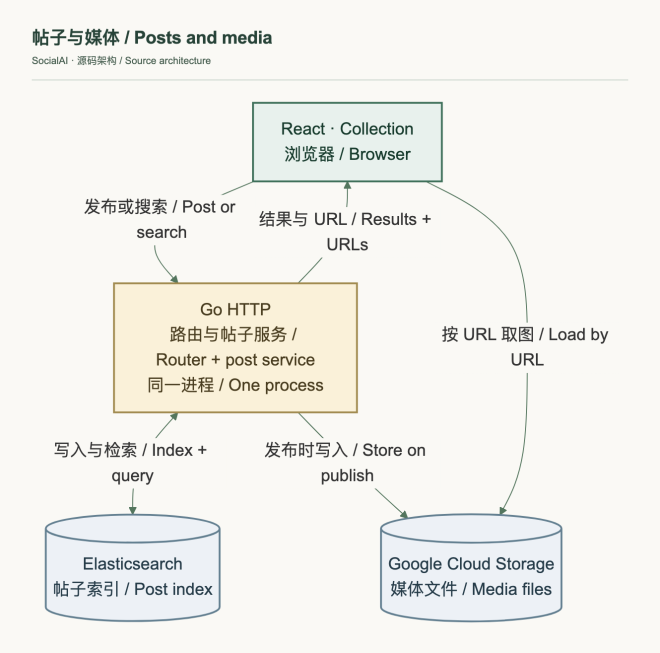
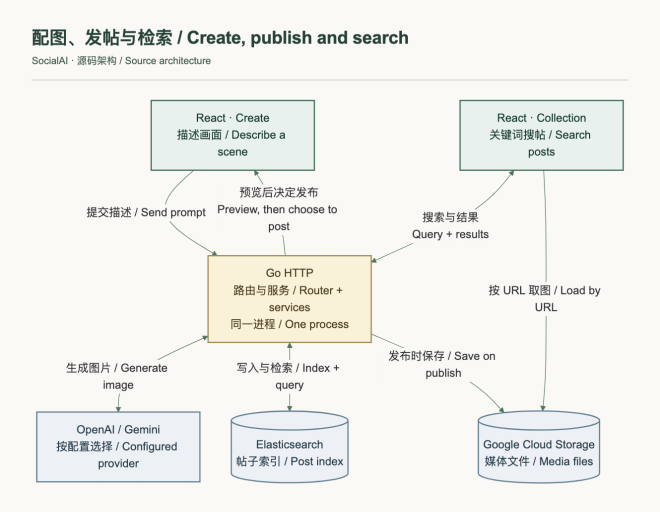
Introduce SocialAI through the author's need for a reaction image

diff --git a/projects-data.js b/projects-data.js
@@ -328,12 +328,12 @@ const PROJECTS = {
       "type": "academic",
       "tech": "React, Go, Elasticsearch, Google Cloud Storage, Docker",
       "summary": [
-        "A word from a post can lead you back to its photo. In SocialAI’s Collection, a keyword search finds matching posts and lets you open their images.",
-        "记得帖子里写过的一个词，就能用它找回配图。在 SocialAI 的 Collection 里，输入关键词可以找到对应的帖子，再点开图片查看。"
+        "Describe a reaction image to go with a post, preview it, and choose whether to publish. To find an image someone has already posted, search Collection for a word you remember.",
+        "想给帖子配张表情图，可以用一句话描述画面，预览后再决定是否发布。想找回看过的配图，也可以在 Collection 里搜一个记得的词。"
       ],
       "background": [
-        "SocialAI was a course project for publishing and finding media posts. Searching by author is useful when you remember who posted a photo. Searching the post text gives you another way in when all you remember is what someone wrote.",
-        "SocialAI 是一个发布和查找图文帖子的课程项目。记得谁发过照片时，可以按作者检索；只记得帖子里写过什么时，也可以从正文入手。"
+        "People often know exactly what they want to say but cannot think of the right reaction image. Sometimes they can picture the meme and still cannot find it. Take “Finally finished.” A cat slumped over a keyboard adds something the words leave open — exhaustion and relief at the same time. SocialAI explores that idea in Create, where the author describes a scene and decides whether the generated preview fits the post. Collection addresses a different moment. Someone looking for a garden bridge photo can find it again by searching for “bridge” in the post text.",
+        "发帖时，常常已经知道自己要说什么，却想不到哪张表情包最贴切。有时脑子里明明有那张图，翻了半天也找不到。比如一句「终于写完了」，配上一只瘫在键盘上的猫，读者就能体会到那种累得够呛、又松了口气的心情。在 SocialAI 的 Create 页面，发帖的人可以把想到的画面描述出来，看过生成的预览再决定是否发布。Collection 用在另一个场景：以前看过一张花园小桥的配图，只要记得帖子里写过 bridge，就能用这个词找回来。"
       ],
       "work": [
         [
@@ -462,19 +462,19 @@ const PROJECTS = {
               "正文和图片分别存在哪里"
             ],
             "body": [
-              "When a post is published, Go saves the media in Google Cloud Storage and indexes the post text, author and media URL in Elasticsearch. During a search, Go returns the matching post records to React. The browser uses their URLs to load the images from storage.",
-              "发帖时，Go 将媒体文件保存到 Google Cloud Storage，并把正文、作者和媒体 URL 写入 Elasticsearch 索引。搜索时，Go 将匹配的帖子记录返回给 React；浏览器拿到记录中的 URL，再从对象存储加载图片。"
+              "Create sends the author’s scene description to Go. The image-generation interface, which I designed and verified with coding-agent assistance during June 2026 maintenance, calls the configured provider and returns an image for preview. If the author publishes a post, Go stores its media in Google Cloud Storage and indexes its text, author and media URL in Elasticsearch. Collection can then search the index and load a matching image by URL. The bridge walkthrough starts with an existing sample post.",
+              "Create 将作者的画面描述提交给 Go。2026年6月维护时，我在编码助手协助下设计并验证了图像生成接口，由它调用配置的服务商，将图片返回给作者预览。作者决定发布后，Go 把媒体存入 Google Cloud Storage，并将正文、作者和媒体 URL 写入 Elasticsearch 索引。Collection 可以检索这个索引，再按 URL 加载匹配的图片。桥梁搜图演示从一条已有的示例帖子开始。"
             ],
             "gallery": [
               {
                 "src": "assets/projects/social-ai/architecture.webp",
                 "thumbnail": "assets/projects/social-ai/architecture-thumb.webp",
                 "width": 1330,
-                "height": 1315,
+                "height": 1030,
                 "thumbnailWidth": 660,
                 "alt": [
-                  "React sends posts and searches to Go. Go uses Elasticsearch for posts and Google Cloud Storage for media. The browser loads each image by URL.",
-                  "React 向 Go 提交帖子或搜索。Go 使用 Elasticsearch 存储帖子索引，使用 Google Cloud Storage 存储媒体。浏览器按 URL 加载图片。"
+                  "Create previews a generated image before publication. Collection searches indexed posts and loads their media by URL.",
+                  "Create 在发布前预览生成的配图。Collection 从帖子索引中搜索，再按 URL 加载图片。"
                 ],
                 "caption": [
                   "The search result carries the media URL. The browser makes a separate request for the image itself.",
